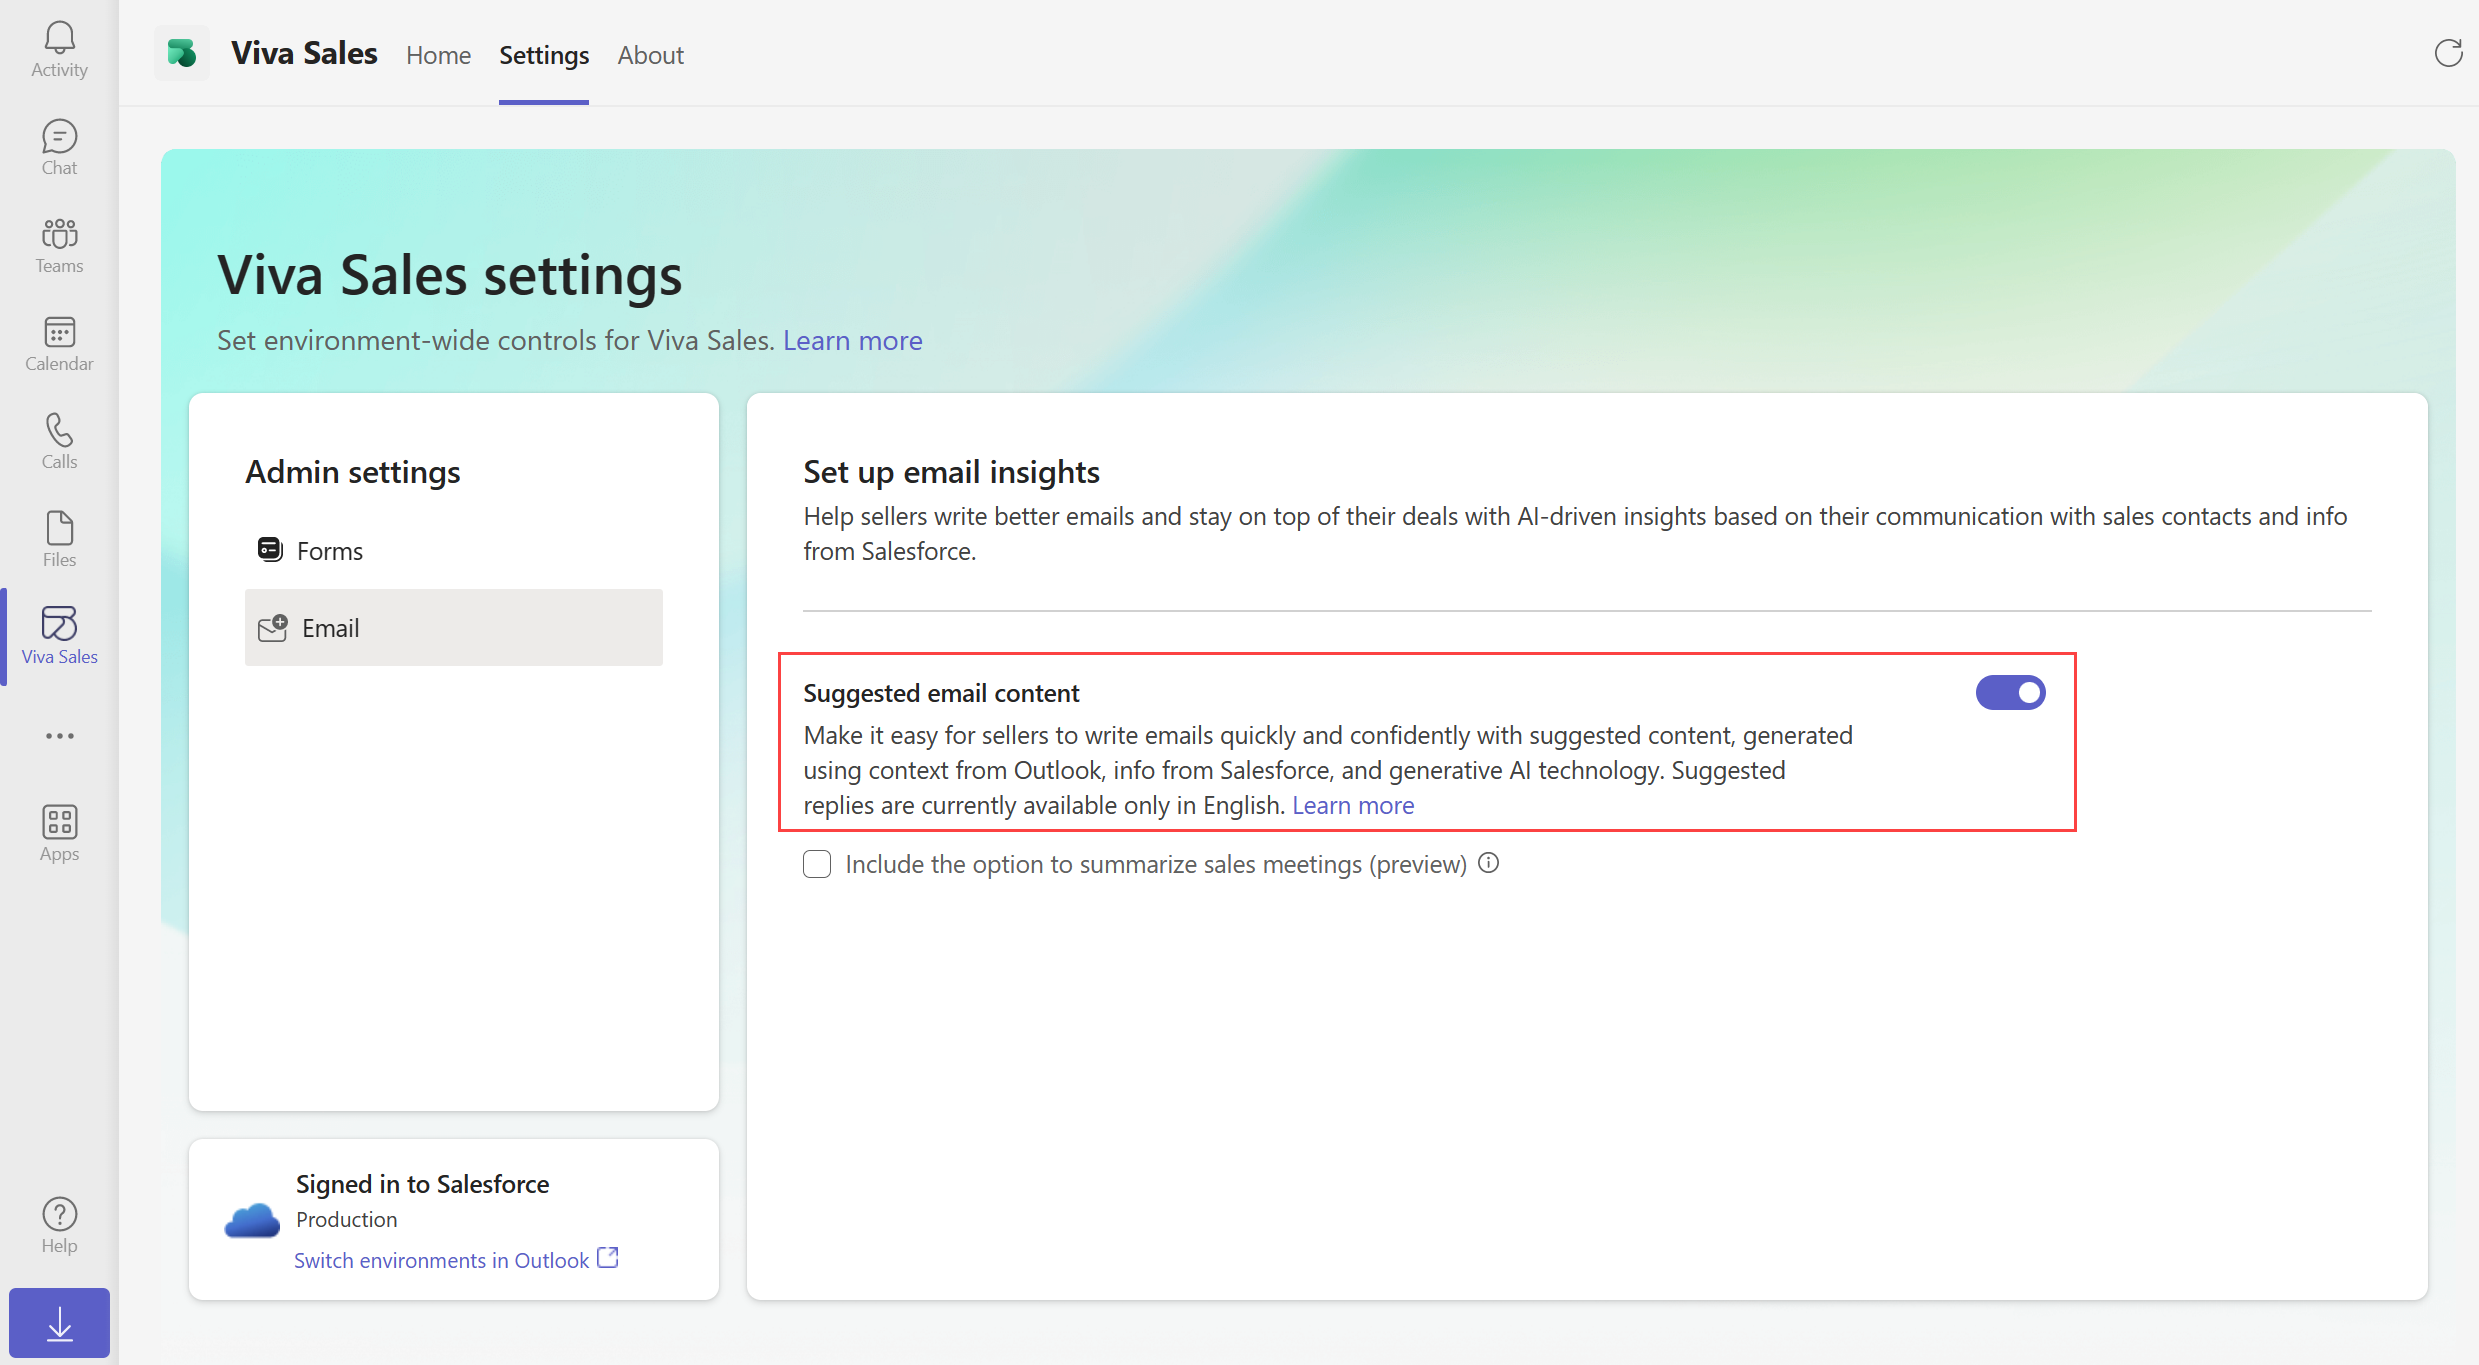
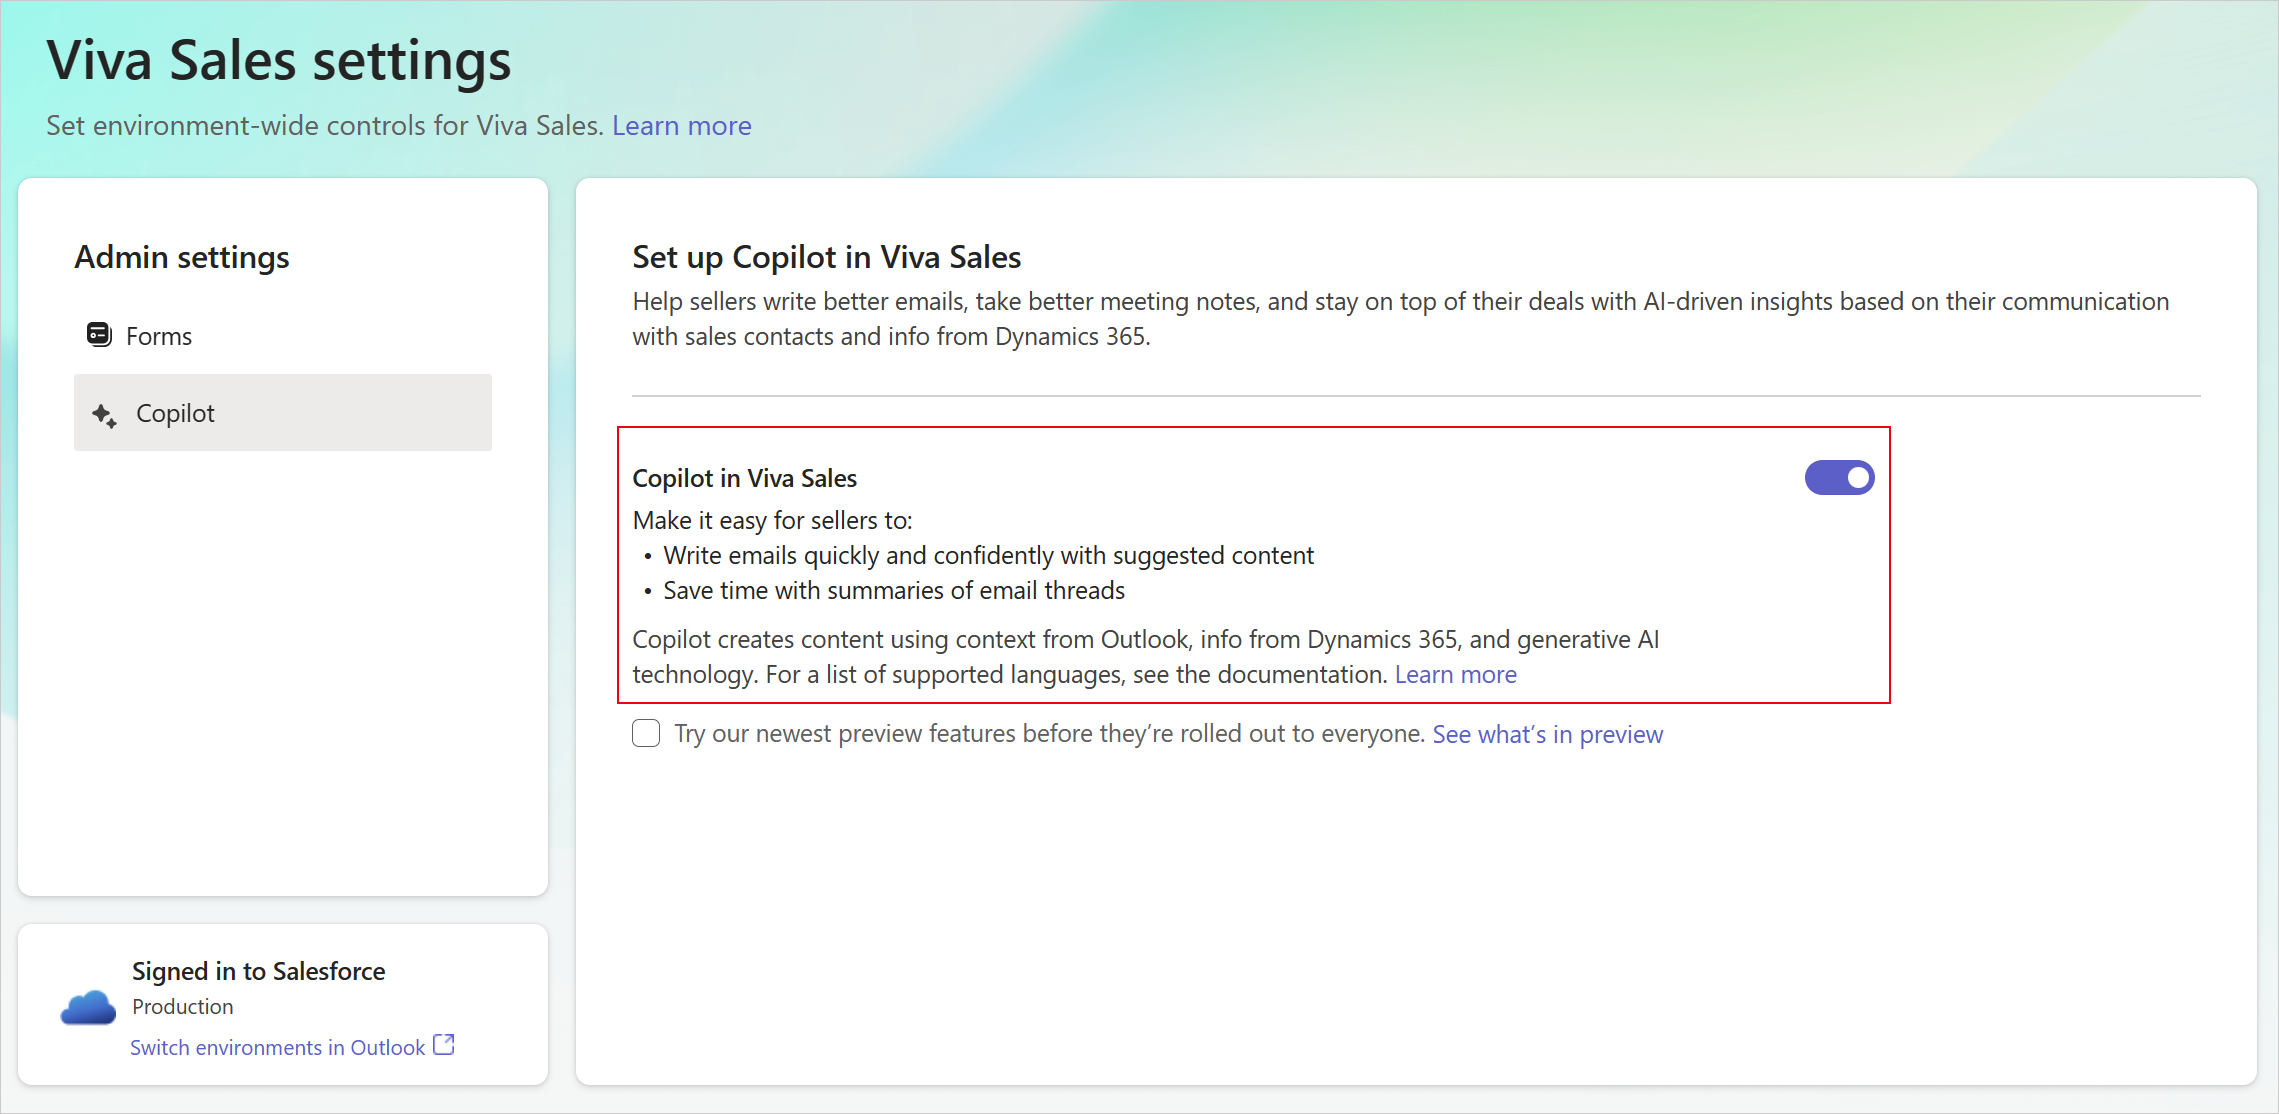
Copilot admin settings update
Category: New-Content

Workitem: https://dev.azure.com/dynamicscrm/OneCRM/_workitems/edit/3418232

Description: Copilot admin settings update

diff --git a/articles/sales/suggested-replies.md b/articles/sales/suggested-replies.md
@@ -1,7 +1,7 @@
 ---
 title: Set up Copilot in Viva Sales
 description: Help sellers write better emails and stay on top of their deals with AI-driven insights.
-ms.date: 06/07/2023
+ms.date: 06/19/2023
 ms.topic: article
 ms.service: viva
 ms.collection: highpri
@@ -25,30 +25,31 @@ As an administrator, you can configure:
 
 ## Copilot in Viva Sales
 
-Generally available Copilot features are available by default to all sellers in your organization. You can turn them off in Viva Sales admin settings.
+Enable Copilot features so your sellers can benefit from the available Copilot capabilities in Viva Sales.
 
 Following are the generally available Copilot features:
 
 - **Generate suggested email content**: Allows sellers to generate suggested email content using context from Outlook, your CRM, and AI. This makes it easy for your sellers to compose or reply to emails quickly and confidently.
-- **View and save email summary**: Allows sellers to view a summary of the recent emails exchanged with a sales contact and save it to the CRM system.
+- **View and save email summary**: Allows sellers to view a summary of the recent emails and save it to the CRM system.
 
 > [!NOTE]
+> - Copilot features are enabled by default for new customers with Dynamics 365 Sales in North America (NAM).
 > - The AI-generated content is just a suggestion. It is your responsibility to review and edit the suggested content to make sure it’s accurate and appropriate before sending your email.
-> - Suggested email content is available in [supported languages](supported-languages.md).
+> - Generally available Copilot features in Viva Sales are available in [supported languages](supported-languages.md).
 > -  Ensure that the Viva Sales for Outlook add-in is updated to the latest version (10.0.0.11 or newer) to use the copy-to-email functionality of the suggested content feature. For information on how to update the add-in, go to [Update the Viva Sales add-in](install-viva-sales-as-an-integrated-app.md#update-the-viva-sales-add-in).
 
-### Turn off Copilot features in Viva Sales
+### Turn on Copilot features in Viva Sales
 
 1.  In Viva Sales admin settings, select **Copilot**.
 
-2.  Turn off **Copilot in Viva Sales**.
+2.  Turn on **Copilot in Viva Sales**.
 
-    :::image type="content" source="media/viva-sales-replies-admin.png" alt-text="Setting to generate suggested email content.":::
+    :::image type="content" source="media/viva-sales-replies-admin.png" alt-text="Setting to turon on Copilot features.":::
 
 
 ## Copilot preview features
 
-Allow sellers to try out new features that are in preview. By default, preview features are turned off. You can turn them on in Viva Sales admin settings.
+Allow sellers to benefit from the latest new features before they are generally available. By default, preview features are turned off. You can turn them on in Viva Sales admin settings.
 
 Following are the preview features:
     
@@ -63,7 +64,7 @@ Following are the preview features:
 
 2. Under **Copilot in Viva Sales**, select **Try our newest preview features before they’re rolled out to everyone.**.
 
-    :::image type="content" source="media/viva-sales-summary-admin.png" alt-text="Setting to allow sellers to summarize sales meetings.":::
+    :::image type="content" source="media/viva-sales-summary-admin.png" alt-text="Setting to turn on Copilot preview features.":::
 
 ## Data access and use
 
@@ -73,10 +74,10 @@ The Azure OpenAI Service is currently available in limited geographies. By using
 
 ## FAQ
 
-### Users don't see the **Copy to email** button and instead only the **Copy text** button in the suggested e-mail feature.
+### Why do sellers see the Copy text button instead of the Copy to email button in the suggested email content feature?
 
 Ensure that the Viva Sales for Outlook add-in is updated to the latest version (10.0.0.11 or newer) to use the copy to email functionality. For information on how to update the add-in, go to [Update the Viva Sales add-in](install-viva-sales-as-an-integrated-app.md#update-the-viva-sales-add-in).
 
 ### See also
 
-[Use AI to kickstart email replies](https://support.microsoft.com/topic/use-ai-to-kickstart-email-replies-148708be-e1f9-477c-baba-0b4dd4b7abef)
+[Use AI to kickstart email message](https://support.microsoft.com/topic/use-ai-to-kickstart-email-replies-148708be-e1f9-477c-baba-0b4dd4b7abef)

diff --git a/articles/sales/deploy-viva-sales-sf.md b/articles/sales/deploy-viva-sales-sf.md
@@ -1,7 +1,7 @@
 ---
 title: Viva Sales deployment guide for Salesforce CRM customers
 description: Learn how to deploy Viva Sales for Salesforce CRM customers.
-ms.date: 04/20/2023
+ms.date: 06/19/2023
 ms.topic: article
 ms.service: viva
 ms.collection: highpri
@@ -100,9 +100,9 @@ Viva Sales comes preconfigured to allow users to be productive out-of-the-box. W
 
 ![Screenshot showing form settings in Viva Sales admin center ](media/viva-sales-forms-admin-sf.png "Screenshot showing form settings in Viva Sales admin center.")
 
-You can set up email insights in Viva Sales to generate suggested email content using context from Outlook, your CRM, and using GPT technology. More information: [Set up email insights](suggested-replies.md).
+You can Set up Copilot in Viva Sales to use generally available and preview features. More information: [Set up Copilot in Viva Sales](suggested-replies.md).
 
-![Screenshot showing email insights settings in Viva Sales admin center ](media/viva-sales-replies-admin-sf.png "Screenshot showing email insights settings in Viva Sales admin center.")
+![Screenshot showing Copilot settings in Viva Sales admin center ](media/viva-sales-replies-admin-sf.png "Screenshot showing Copilot settings in Viva Sales admin center.")
 
 You have now installed and configured Viva Sales in Outlook and Teams.
 

diff --git a/articles/sales/deploy-viva-sales-d365.md b/articles/sales/deploy-viva-sales-d365.md
@@ -1,7 +1,7 @@
 ---
 title: Viva Sales deployment guide for Dynamics 365 customers
 description: Learn how to deploy Viva Sales for Dynamics 365 customers.
-ms.date: 04/05/2023
+ms.date: 06/19/2023
 ms.topic: article
 ms.service: viva
 ms.collection: highpri
@@ -74,9 +74,9 @@ Viva Sales comes preconfigured to allow users to be productive out-of-the-box. W
 
 ![Screenshot showing form settings in Viva Sales admin center ](media/viva-sales-forms-admin.png "Screenshot showing form settings in Viva Sales admin center.")
 
-You can set up email insights in Viva Sales to generate suggested email content using context from Outlook, your CRM, and using GPT technology. More information: [Set up email insights](suggested-replies.md).
+You can Set up Copilot in Viva Sales to use generally available and preview features. More information: [Set up Copilot in Viva Sales](suggested-replies.md).
 
-![Screenshot showing email insights settings in Viva Sales admin center ](media/viva-sales-replies-admin.png "Screenshot showing email insights settings in Viva Sales admin center.")
+![Screenshot showing Copilot settings in Viva Sales admin center ](media/viva-sales-replies-admin.png "Screenshot showing Copilot settings in Viva Sales admin center.")
 
 You have now installed and configured Viva Sales in Outlook and Teams.
 
